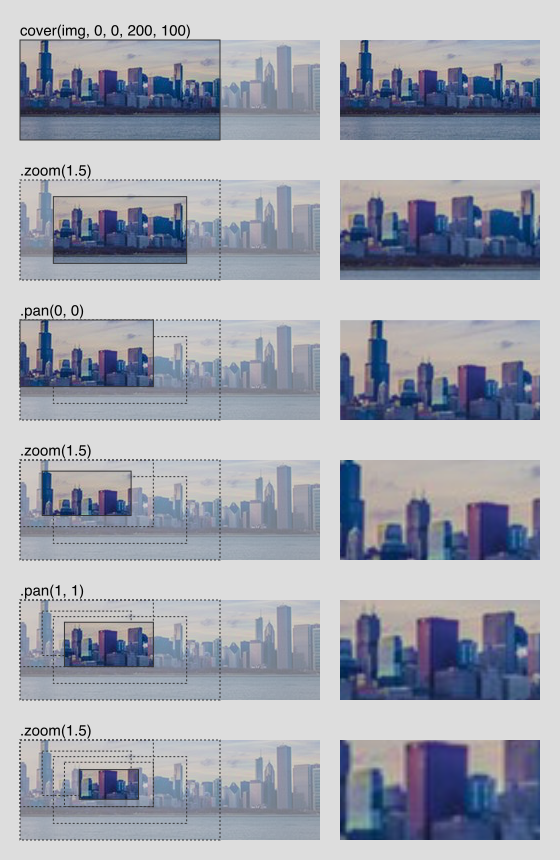
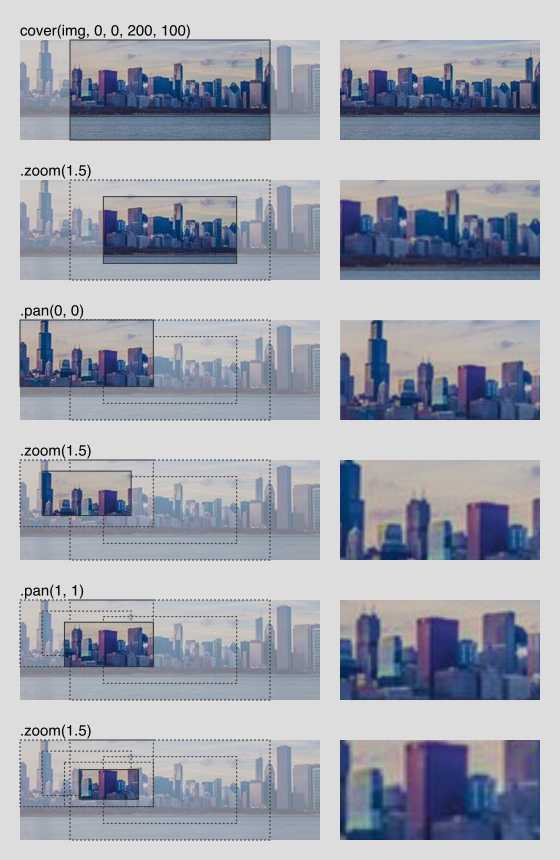
fix initial zoom position

diff --git a/test/index.js b/test/index.js
@@ -10,42 +10,42 @@ describe('canvas cover', function () {
   });
 
   it('should zoom into the center', () => {
-    const img = { width: 200, height: 100 };
+    const img = { width: 300, height: 100 };
     const out = cover(img, 0, 0, 200, 100).zoom(2);
-    expect(out).to.include({ sx: 50, sy: 25, sw: 100, sh: 50 });
+    expect(out).to.include({ sx: 100, sy: 25, sw: 100, sh: 50 });
   });
 
   it('should zoom into the top left', () => {
-    const img = { width: 200, height: 100 };
+    const img = { width: 300, height: 100 };
     const out = cover(img, 0, 0, 200, 100).zoom(2).pan(0, 0);
     expect(out).to.include({ sx: 0, sy: 0, sw: 100, sh: 50 });
   });
 
   it('should zoom into the bottom right', () => {
-    const img = { width: 200, height: 100 };
+    const img = { width: 300, height: 100 };
     const out = cover(img, 0, 0, 200, 100).zoom(2).pan(1, 1);
     expect(out).to.include({ sx: 100, sy: 50, sw: 100, sh: 50 });
   });
 
   it('should zoom into the center of the top left', () => {
-    const img = { width: 200, height: 100 };
+    const img = { width: 300, height: 100 };
     const out = cover(img, 0, 0, 200, 100).zoom(2).pan(0, 0).zoom(2);
     expect(out).to.include({ sx: 25, sy: 12.5, sw: 50, sh: 25 });
   });
 
   it('should zoom into the center of the bottom right', () => {
-    const img = { width: 200, height: 100 };
+    const img = { width: 300, height: 100 };
     const out = cover(img, 0, 0, 200, 100).zoom(2).pan(1, 1).zoom(2);
     expect(out).to.include({ sx: 125, sy: 62.5, sw: 50, sh: 25 });
   });
 
   it('should handle multiple zooms and pans', () => {
-    const img = { width: 200, height: 100 };
+    const img = { width: 300, height: 100 };
     const out = cover(img, 0, 0, 200, 100).zoom(2).pan(0, 0).zoom(2).pan(1, 1).zoom(2);
     expect(out).to.include({ sx: 62.5, sy: 31.25, sw: 25, sh: 12.5 });
   });
 
-  it('should zoom into the center the left side of a wide image', () => {
+  it('should zoom into the center of the left side of a wide image', () => {
     const img = { width: 400, height: 100 };
     const out = cover(img, 0, 0, 200, 100).pan(0, 0.5).zoom(2);
     expect(out).to.include({ sx: 50, sy: 25, sw: 100, sh: 50 });
@@ -57,7 +57,7 @@ describe('canvas cover', function () {
       drawImage: sinon.stub(),
       restore: () => {}
     };
-    const img = { width: 200, height: 100 };
+    const img = { width: 300, height: 100 };
     cover(img, 0, 0, 200, 100).zoom(2).pan(0, 0).zoom(2).render(ctx);
     expect(ctx.drawImage.callCount).to.equal(1);
     expect(ctx.drawImage.calledWith(img, 25, 12.5, 50, 25, 0, 0, 200, 100)).to.equal(true);

diff --git a/index.js b/index.js
@@ -36,11 +36,9 @@ class Cover {
   pan (cx, cy) {
     if (cx < 0 || cx > 1) throw new Error('make sure 0 < cx < 1 ');
     if (cy < 0 || cy > 1) throw new Error('make sure 0 < cy < 1 ');
-    this.cx = cx;
-    this.cy = cy;
-    let { width, height } = this.bounds.length > 1 ? this.bounds[this.bounds.length - 2] : this;
-    this.sx = (width - this.sw) * this.cx;
-    this.sy = (height - this.sh) * this.cy;
+    let { width, height } = this.bounds.length > 1 ? this.bounds[this.bounds.length - 2] : this.img;
+    this.sx = (width - this.sw) * cx;
+    this.sy = (height - this.sh) * cy;
     return this;
   }
 
